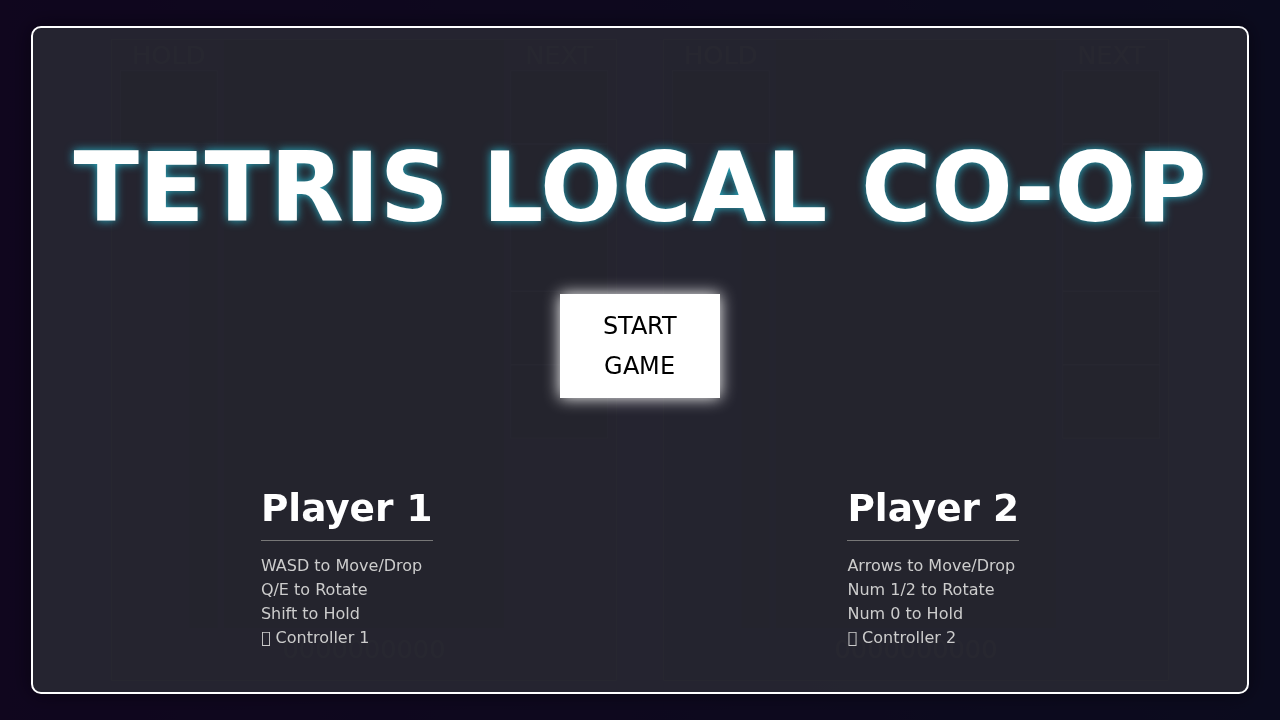
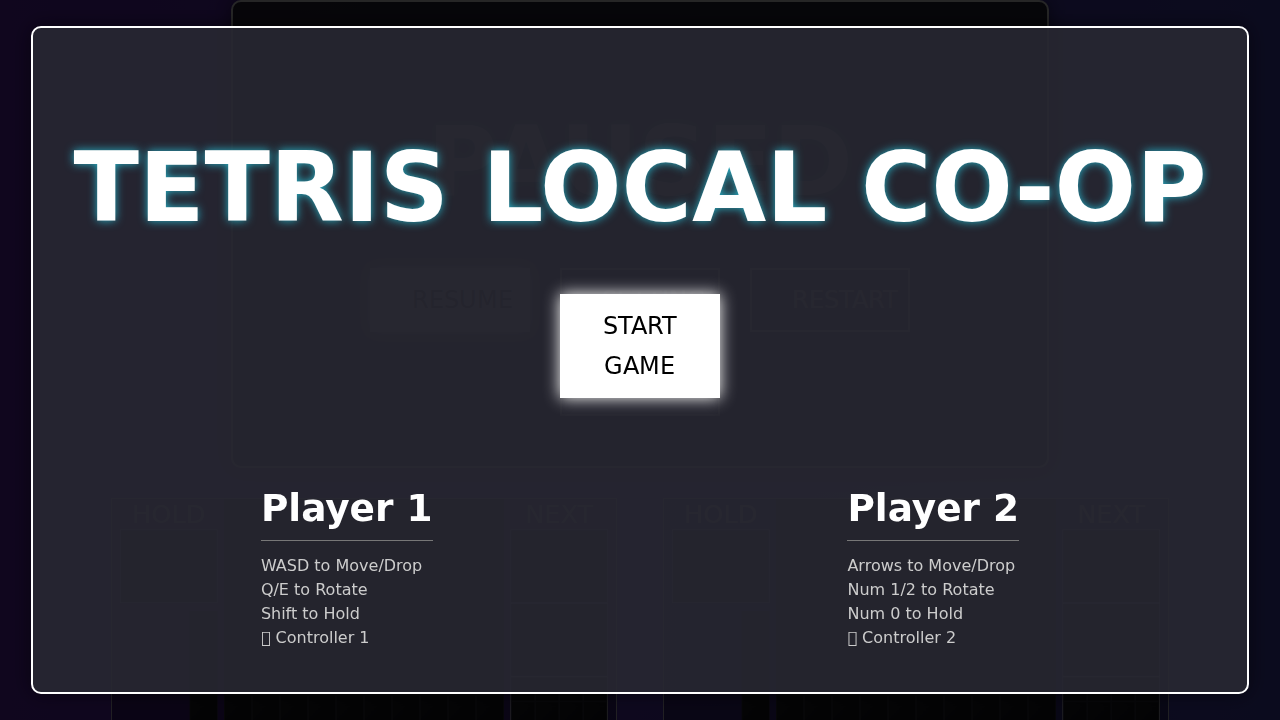
feat: add pause menu and swap controller rotation buttons

Changed region(s): [[0.125, 0.9778, 0.5, 1.0], [0.5625, 0.9778, 0.9062, 1.0]]

diff --git a/client/index.js b/client/index.js
@@ -19,18 +19,28 @@ player2.player.events.listen('garbage', (amount) => {
 const keyListener = (event) => {
     if (event.type !== 'keydown') return;
 
-    // Menu navigation
-    if (!document.getElementById('menu-overlay').classList.contains('hidden')) {
+    const menuOverlay = document.getElementById('menu-overlay');
+    const pauseMenu = document.getElementById('pause-menu');
+
+    // Main Menu Navigation
+    if (!menuOverlay.classList.contains('hidden')) {
         if (!event.repeat && (event.code === 'Enter' || event.code === 'Space')) {
             document.getElementById('btn-start').click();
         }
         return;
     }
 
+    // Pause Menu Navigation (Simple for now: toggle pause on Esc)
+    if (!pauseMenu.classList.contains('hidden')) {
+         if (!event.repeat && (event.code === 'Escape')) {
+             document.getElementById('btn-resume').click();
+         }
+         return;
+    }
+
     // Global Pause
     if (!event.repeat && event.code === 'Escape') {
-        player1.togglePaused();
-        player2.togglePaused();
+        togglePauseMenu();
         return;
     }
 
@@ -100,6 +110,50 @@ startButton.addEventListener('click', () => {
     // playMusic();
 });
 
+// Pause Menu Logic
+const pauseMenu = document.getElementById('pause-menu');
+const btnResume = document.getElementById('btn-resume');
+const btnSettings = document.getElementById('btn-settings');
+const btnRestart = document.getElementById('btn-restart');
+const btnQuit = document.getElementById('btn-quit');
+
+function togglePauseMenu() {
+    if (pauseMenu.classList.contains('hidden')) {
+        // Pause Game
+        if (!player1.paused) player1.togglePaused();
+        if (!player2.paused) player2.togglePaused();
+        pauseMenu.classList.remove('hidden');
+    } else {
+        // Resume Game
+        if (player1.paused) player1.togglePaused();
+        if (player2.paused) player2.togglePaused();
+        pauseMenu.classList.add('hidden');
+    }
+}
+
+btnResume.addEventListener('click', () => {
+    togglePauseMenu();
+});
+
+btnSettings.addEventListener('click', () => {
+    alert("Settings coming soon!");
+});
+
+btnRestart.addEventListener('click', () => {
+    pauseMenu.classList.add('hidden');
+    player1.startGame();
+    player2.startGame();
+});
+
+btnQuit.addEventListener('click', () => {
+    pauseMenu.classList.add('hidden');
+    // Ideally we should reset game state here, but for now we just show main menu
+    // And let Start Game handle restart or resume.
+    // To properly quit, we might reload the page or implement a full reset.
+    location.reload();
+});
+
+
 function playMusic() {
   const sound = document.createElement("audio");
   sound.src = "audio/awesome-awesome-tetris-remix.mp3";
@@ -140,9 +194,7 @@ function handleGamepadInput(gp, player, index) {
     const now = Date.now();
 
     // Mapping (Standard Xbox/DualShock)
-    // 0: A/Cross (Rot R), 1: B/Circle (Rot L), 2: X/Square (Hold), 3: Y/Triangle (Hard Drop)
-    // 12: D-Up (Hard Drop), 13: D-Down (Soft Drop), 14: D-Left, 15: D-Right
-    // 4: LB (Hold), 5: RB
+    // 0: A/Cross, 1: B/Circle, 2: X/Square, 3: Y/Triangle
     // 9: Start (Pause)
 
     const btns = gp.buttons;
@@ -156,8 +208,8 @@ function handleGamepadInput(gp, player, index) {
         right: (btns[15] && btns[15].pressed) || (axes[0] && axes[0] > axisThreshold),
         down: (btns[13] && btns[13].pressed) || (axes[1] && axes[1] > axisThreshold),
         up: (btns[12] && btns[12].pressed) || (axes[1] && axes[1] < -axisThreshold) || (btns[3] && btns[3].pressed),
-        rotR: btns[0] && btns[0].pressed, // A
-        rotL: btns[1] && btns[1].pressed, // B
+        rotR: btns[1] && btns[1].pressed, // B (Swapped per user request)
+        rotL: btns[0] && btns[0].pressed, // A (Swapped per user request)
         hold: (btns[2] && btns[2].pressed) || (btns[4] && btns[4].pressed), // X or LB
         start: btns[9] && btns[9].pressed // Start button
     };
@@ -166,9 +218,10 @@ function handleGamepadInput(gp, player, index) {
     if (currentButtons.start && !state.buttons.start) {
         if (!document.getElementById('menu-overlay').classList.contains('hidden')) {
              document.getElementById('btn-start').click();
+        } else if (!document.getElementById('pause-menu').classList.contains('hidden')) {
+             document.getElementById('btn-resume').click();
         } else {
-            player1.togglePaused();
-            player2.togglePaused();
+            togglePauseMenu();
         }
     }
 

diff --git a/index.html b/index.html
@@ -13,6 +13,7 @@
     <script src='client/index.js' defer></script>
   </head>
   <body>
+    <!-- Main Menu -->
     <div id="menu-overlay" class="menu-overlay">
       <div class="menu-content">
         <h1>TETRIS LOCAL CO-OP</h1>
@@ -36,6 +37,17 @@
       </div>
     </div>
 
+    <!-- Pause Menu -->
+    <div id="pause-menu" class="menu-overlay hidden">
+      <div class="menu-content">
+        <h1>PAUSED</h1>
+        <button id="btn-resume" class="menu-button selected">RESUME</button>
+        <button id="btn-settings" class="menu-button">SETTINGS</button>
+        <button id="btn-restart" class="menu-button">RESTART</button>
+        <button id="btn-quit" class="menu-button">QUIT</button>
+      </div>
+    </div>
+
     <div id="game-container"></div>
 
     <template id="full-game-template">
@@ -46,7 +58,6 @@
           <canvas class='garbage' width='35' height='595'></canvas>
         </div>
         <div class="mid-column">
-          <!-- Start button removed from template as we use global menu -->
           <canvas class='tetris' width='350' height='735'></canvas>
           <div class="score">-</div>
         </div>
